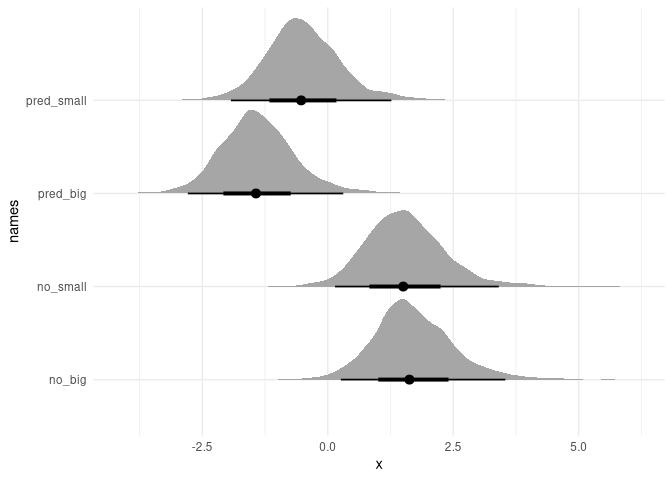
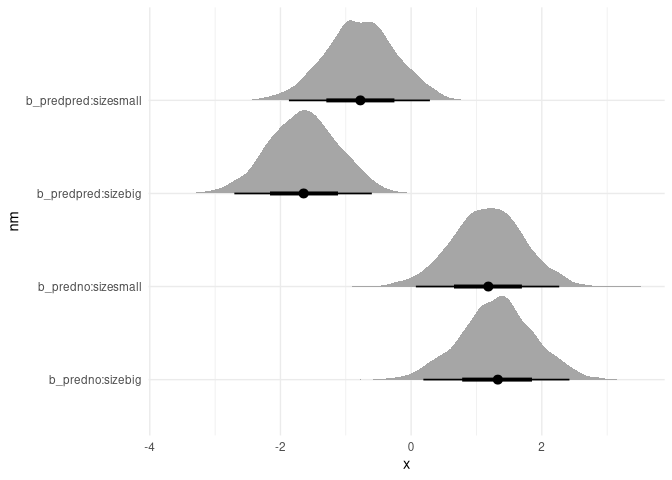
fin q03, render

diff --git a/homework/06-homework.md b/homework/06-homework.md
@@ -45,6 +45,39 @@ Note alpha j is shown on the probability scale.
 > approach is to estimate an effect for each combination of pred and
 > size. Justify your model with a DAG of this experiment.
 
+![](../graphics/homework/dag_h06_q02-1.png)<!-- -->
+
+    ##  Family: binomial 
+    ##   Links: mu = logit 
+    ## Formula: surv | trials(density) ~ pred:size + (1 | tank) 
+    ##    Data: h06_q02_brms_data (Number of observations: 48) 
+    ##   Draws: 4 chains, each with iter = 1000; warmup = 0; thin = 1;
+    ##          total post-warmup draws = 4000
+    ## 
+    ## Priors: 
+    ## b ~ normal(0, 1)
+    ## Intercept ~ normal(0, 1.5)
+    ## sd ~ exponential(1)
+    ## 
+    ## Group-Level Effects: 
+    ## ~tank (Number of levels: 48) 
+    ##               Estimate Est.Error l-95% CI u-95% CI Rhat Bulk_ESS Tail_ESS
+    ## sd(Intercept)     0.74      0.15     0.49     1.06 1.00     1470     2477
+    ## 
+    ## Population-Level Effects: 
+    ##                    Estimate Est.Error l-95% CI u-95% CI Rhat Bulk_ESS Tail_ESS
+    ## Intercept              1.30      0.51     0.32     2.33 1.00     1398     1990
+    ## predno:sizebig         1.32      0.56     0.19     2.42 1.00     1567     2287
+    ## predpred:sizebig      -1.64      0.54    -2.71    -0.60 1.00     1413     2255
+    ## predno:sizesmall       1.18      0.55     0.07     2.27 1.00     1631     2361
+    ## predpred:sizesmall    -0.78      0.55    -1.87     0.29 1.00     1420     1743
+    ## 
+    ## Draws were sampled using sample(hmc). For each parameter, Bulk_ESS
+    ## and Tail_ESS are effective sample size measures, and Rhat is the potential
+    ## scale reduction factor on split chains (at convergence, Rhat = 1).
+
+![](../graphics/homework/h06_q02-1.png)<!-- -->
+
 ## Question 3
 
 > Now estimate the causal effect of density on survival. Consider
@@ -54,3 +87,41 @@ Note alpha j is shown on the probability scale.
 > convert it to an ordered category (with three levels). Compare the σ
 > (tank standard deviation) posterior distribution to σ from your model
 > in Problem 2. How are they different? Why?
+
+    ##  Family: binomial 
+    ##   Links: mu = logit 
+    ## Formula: surv | trials(density) ~ pred:size + scale_density + (1 | tank) 
+    ##    Data: h06_q03_brms_data (Number of observations: 48) 
+    ##   Draws: 4 chains, each with iter = 1000; warmup = 0; thin = 1;
+    ##          total post-warmup draws = 4000
+    ## 
+    ## Priors: 
+    ## b ~ normal(0, 1)
+    ## Intercept ~ normal(0, 1)
+    ## sd ~ exponential(1)
+    ## 
+    ## Group-Level Effects: 
+    ## ~tank (Number of levels: 48) 
+    ##               Estimate Est.Error l-95% CI u-95% CI Rhat Bulk_ESS Tail_ESS
+    ## sd(Intercept)     0.72      0.15     0.45     1.03 1.00     1430     2150
+    ## 
+    ## Population-Level Effects: 
+    ##                    Estimate Est.Error l-95% CI u-95% CI Rhat Bulk_ESS Tail_ESS
+    ## Intercept              1.33      0.52     0.34     2.34 1.00     1383     1919
+    ## scale_density         -0.26      0.15    -0.56     0.04 1.00     1836     2336
+    ## predno:sizebig         1.35      0.56     0.21     2.45 1.00     1570     2143
+    ## predpred:sizebig      -1.66      0.53    -2.70    -0.61 1.00     1387     1802
+    ## predno:sizesmall       1.19      0.56     0.09     2.29 1.00     1500     2258
+    ## predpred:sizesmall    -0.78      0.54    -1.86     0.26 1.00     1401     1991
+    ## 
+    ## Draws were sampled using sample(hmc). For each parameter, Bulk_ESS
+    ## and Tail_ESS are effective sample size measures, and Rhat is the potential
+    ## scale reduction factor on split chains (at convergence, Rhat = 1).
+
+    ## Setting all 'trials' variables to 1 by default if not specified otherwise.
+
+![](../graphics/homework/h06_q03-1.png)<!-- -->
+
+    ## Setting all 'trials' variables to 1 by default if not specified otherwise.
+
+![](../graphics/homework/h06_q03-2.png)<!-- -->
